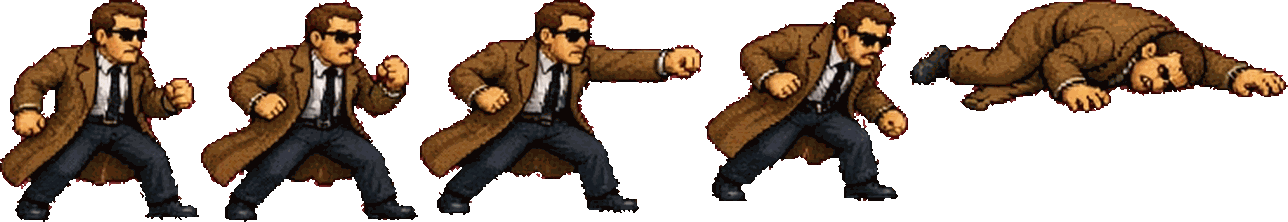
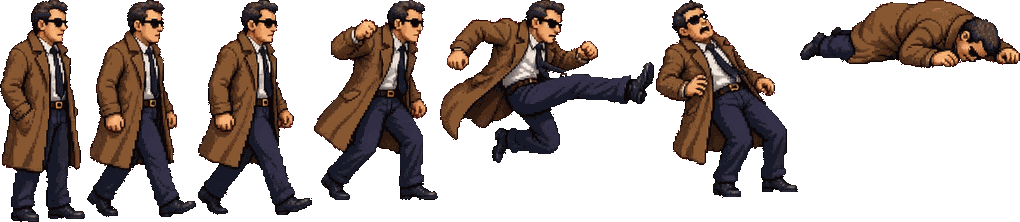
Art v5: multi-frame boss animations (walk/wind-up/strike/hurt/defeat) and AI-generated kid, crates, barrels (with broken rubble), bananas, heart and hay; tests extended

diff --git a/js/main.js b/js/main.js
@@ -4,7 +4,7 @@ import { input } from './input.js';
 import { audio } from './audio.js';
 import { drawBG, laneOf } from './bg.js';
 import { loadAssets, A } from './assets.js';
-import { shadow, drawHarambe, drawHuman, drawKid, drawProp, drawBanana, drawProj, drawText, drawSpark, drawDust, drawLogo, textWidth, spr } from './sprites.js';
+import { shadow, drawHarambe, drawHuman, drawKid, drawProp, drawBanana, drawRubble, drawHeart, drawProj, drawText, drawSpark, drawDust, drawLogo, textWidth, spr } from './sprites.js';
 import { INTRO, drawOutro } from './scenes.js';
 
 const cv = document.getElementById('c'), ctx = cv.getContext('2d');
@@ -26,7 +26,7 @@ function setMode(m) { G.mode = m; G.mt = 0; }
 
 // ---------- stage setup ----------
 function startStage(i, keepPlayer = true) {
-  const st = STAGES[i]; G.stage = i; G.lane = laneOf(st.bg); G.cam = 0; G.lock = null; G.evIdx = 0; G.ents = []; G.items = []; G.proj = []; G.fx = []; G.texts = []; G.boss = null; G.bossSpawned = false; G.goT = 0;
+  const st = STAGES[i]; G.stage = i; G.lane = laneOf(st.bg); G.cam = 0; G.lock = null; G.evIdx = 0; G.ents = []; G.items = []; G.rubble = []; G.proj = []; G.fx = []; G.texts = []; G.boss = null; G.bossSpawned = false; G.goT = 0;
   G.props = st.props.map(p => ({ x: p.x, y: G.lane.top + 4 + ((p.x * 7) % Math.max(8, G.lane.bot - G.lane.top - 10)), kind: p.kind, hp: 2, flash: 0 }));
   if (!keepPlayer || !G.p) G.p = newPlayer(); else { Object.assign(G.p, { x: 40, y: (G.lane.top + G.lane.bot) / 2, z: 0, state: 'idle', vx: 0, hp: G.p.max, inv: 1.5 }); }
   audio.play('stage' + i, st.music); setMode('stageintro');
@@ -125,7 +125,7 @@ function deflect(p, reach) { // swings bat comic projectiles out of the air
   const n0 = G.proj.length; G.proj = G.proj.filter(n => !(Math.abs(n.x - (p.x + p.face * reach * 0.6)) < reach * 0.6 + 6 && Math.abs(n.y - p.y) < 16 && n.kind !== 'shell'));
   if (G.proj.length < n0) { popText('DEFLECT!', p.x + p.face * 20, p.y - 60, '#9af0ff', 0.5); audio.sfx('punch'); G.score += 25; } }
 function hitProps(p, reach) { for (const pr of G.props) if (!pr.dead && Math.abs(pr.x - (p.x + p.face * reach)) < 18 && Math.abs(pr.y - p.y) < 14 && !pr.hitBy?.has(p.st > 0 ? p.state + p.n + (p.comboT) : 0)) { pr.hp--; pr.flash = 0.08; G.hitstop = 0.03; audio.sfx('punch'); if (pr.hp <= 0) breakProp(pr); else pr.hp = pr.hp; } }
-function breakProp(pr) { if (pr.dead) return; pr.dead = true; audio.sfx('break'); G.shake = 2; G.score += 30; spark(pr.x, pr.y - 10, true); const r = Math.random(); G.items.push({ x: pr.x, y: pr.y, kind: 'banana', heal: r < 0.25 ? 50 : 20 }); }
+function breakProp(pr) { if (pr.dead) return; pr.dead = true; (G.rubble ||= []).push({ x: pr.x, y: pr.y, kind: pr.kind, t: 0 }); audio.sfx('break'); G.shake = 2; G.score += 30; spark(pr.x, pr.y - 10, true); const r = Math.random(); G.items.push({ x: pr.x, y: pr.y, kind: 'banana', heal: r < 0.25 ? 50 : 20 }); }
 
 // ---------- enemies ----------
 function attackersNow() { return G.ents.filter(e => !e.boss && (e.state === 'windup' || e.state === 'atk')).length; }
@@ -217,6 +217,7 @@ function updatePlaying(dt) {
   for (const n of G.proj) { n.x += n.vx * dt; n.life -= dt; if (Math.abs(n.x - p.x) < 12 && Math.abs(n.y - p.y) < 13 && p.z < 24 && p.state !== 'dead') { n.life = 0; hurtPlayer(n.dmg, n.x - Math.sign(n.vx), n.kind === 'shell'); popText(PROJ_TEXT[n.kind] || 'HIT!', p.x, p.y - 80, '#d8d8a0', 0.6); } }
   G.proj = G.proj.filter(n => n.life > 0 && n.x > G.cam - 20 && n.x < G.cam + W + 20);
   for (const pr of G.props) if (pr.flash > 0) pr.flash -= dt; G.props = G.props.filter(x => !x.dead);
+  for (const r of G.rubble || []) r.t += dt; G.rubble = (G.rubble || []).filter(r => r.t < 1.6);
   // wave clear
   if (G.lock !== null && !G.ents.some(e => e.state !== 'dead')) {
     if (G.boss && G.bossSpawned) { G.boss = null; G.lock = null; audio.stop(); audio.sfx('fanfare'); G.clearT = 0; setMode('stageclear'); return; }
@@ -255,7 +256,7 @@ function drawHUD() {
   drawText(ctx, 'HARAMBE', 34, 14, '#ffe66a', 8);
   drawText(ctx, String(Math.round(G.score)) + ' PTS.', 148, 14, '#ffffff', 8, 'right');
   drawText(ctx, 'LIFE', 34, 25, '#ff9ad8', 8); segBar(60, 19, 22, r, r > 0.3 ? ['#ffd02a', '#fff09a', '#d88a10'] : ['#ff4a4a', '#ffa0a0', '#a01818'], r <= 0.3);
-  drawText(ctx, 'REST', 34, 36, '#ff9ad8', 8); drawText(ctx, String(p.lives), 62, 36, '#ffe66a', 8); drawText(ctx, 'HI ' + String(Math.max(G.hiscore, Math.round(G.score))), 148, 36, '#9ab8ff', 8, 'right');
+  drawText(ctx, 'REST', 34, 36, '#ff9ad8', 8); drawHeart(ctx, 67, 36); drawText(ctx, 'x' + String(p.lives), 74, 36, '#ffe66a', 8); drawText(ctx, 'HI ' + String(Math.max(G.hiscore, Math.round(G.score))), 148, 36, '#9ab8ff', 8, 'right');
   // right panel: boss, or the enemy you last hit, else stage info
   const b = G.boss && G.ents.includes(G.boss) ? G.boss : null, le = G.lastHit && G.ents.includes(G.lastHit) && G.lastHit.state !== 'dead' && G.lastHitT > 0 ? G.lastHit : null, tgt = b || le;
   panel(W - 4 - 150, 3, 150, tgt ? 30 : 22);
@@ -270,6 +271,7 @@ function drawWorld() {
   drawBG(ctx, STAGES[G.stage].bg, cam, G.t);
   const list = [];
   for (const pr of G.props) list.push({ y: pr.y, f: () => { shadow(ctx, pr.x - cam, pr.y, 18); drawProp(ctx, { ...pr, x: pr.x - cam }); } });
+  for (const r of G.rubble || []) list.push({ y: r.y - 1, f: () => drawRubble(ctx, { ...r, x: r.x - cam }) });
   for (const it of G.items) list.push({ y: it.y, f: () => drawBanana(ctx, it.x - cam, it.y, G.t, it.heal > 25) });
   for (const e of G.ents) list.push({ y: e.y, f: () => { shadow(ctx, e.x - cam, e.y, e.boss ? 56 : 36); const st = e.state, dur = { melee: e.d.double ? 0.5 : 0.4, lunge: 0.5, shoot: 0.5, slam: 0.6, summon: 0.7 }[e.move] || 0.4;
     drawHuman(ctx, { type: e.type, x: e.x - cam, y: e.y, z: e.z, face: e.face, t: e.t, state: st === 'charge' ? 'run' : st, at: st === 'hurt' ? e.st / 0.28 : e.st / dur, lieT: st === 'dead' ? e.dead + 0.5 : e.st, flash: e.flashT > 0 || (st === 'dead' && Math.floor(e.dead * 20) % 2) }); } });

diff --git a/js/sprites.js b/js/sprites.js
@@ -11,7 +11,20 @@ function blitFrame(ctx, sheetName, anim, i, x, y, face, flash) {
   ctx.save(); ctx.translate(q3(x), q3(y)); if (face < 0) ctx.scale(-1, 1);
   ctx.drawImage(img, f.x, f.y, f.w, f.h, -f.ax / S, -f.ay / S, f.w / S, f.h / S); ctx.restore();
 }
+/** AI-generated prop (props_ai atlas, baked at 3x), anchored bottom-centre. `s` = extra scale, `face` < 0 mirrors. */
+function aiProp(ctx, name, x, y, s = 1, face = 1, white = false) {
+  const r = A.propsAi && A.propsAi[name]; if (!r) return false;
+  const src = white ? aiWhite(name) : A.propsAiImg, sx = white ? 0 : r[0], sy = white ? 0 : r[1];
+  ctx.save(); ctx.translate(q3(x), q3(y)); if (face < 0) ctx.scale(-1, 1);
+  ctx.drawImage(src, sx, sy, r[2], r[3], -r[4] / S * s, -r[5] / S * s, r[2] / S * s, r[3] / S * s); ctx.restore(); return true;
+}
+const aiw = {};
+function aiWhite(name) {
+  if (aiw[name]) return aiw[name]; const r = A.propsAi[name], c = document.createElement('canvas'); c.width = r[2]; c.height = r[3]; const g = c.getContext('2d');
+  g.drawImage(A.propsAiImg, r[0], r[1], r[2], r[3], 0, 0, r[2], r[3]); g.globalCompositeOperation = 'source-atop'; g.fillStyle = '#fff'; g.fillRect(0, 0, r[2], r[3]); return aiw[name] = c;
+}
 export function spr(ctx, name, x, y, flip = false) { // props atlas item, anchored bottom-centre
+  if (name === 'haystack' && aiProp(ctx, 'haybale', x, y)) return;
   const r = A.props[name]; if (!r) return; ctx.drawImage(A.propsImg, r[0], r[1], r[2], r[3], Math.round(x - r[2] / 2) , Math.round(y - r[3]), r[2], r[3]);
 }
 const white = {};
@@ -59,19 +72,26 @@ export function drawHuman(ctx, s) {
   blitFrame(ctx, type, anim, i, x, y - z - bob, face, flash);
 }
 
+/** The kid (AI art). pose: kid_idle / kid_walk0 / kid_walk1 (idle with a hop) / kid_fly (tumbling) / kid_flop, kid_cheer (landed in the hay nest). Anchored at the feet. */
 export function drawKid(ctx, x, y, pose = 'kid_idle', face = 1) {
-  const r = A.props[pose]; if (!r) return;
-  ctx.save(); ctx.translate(Math.round(x), Math.round(y)); if (face < 0) ctx.scale(-1, 1);
-  ctx.scale(1.5, 1.5); ctx.drawImage(A.propsImg, r[0], r[1], r[2], r[3], -22, -40, r[2], r[3]); ctx.restore();
+  const name = pose === 'kid_fly' ? 'kid_fly' : pose === 'kid_flop' || pose === 'kid_cheer' ? 'kid_hay' : 'kid_idle';
+  const hop = pose === 'kid_walk0' ? -1 : pose === 'kid_walk1' ? 1 : 0;
+  if (!aiProp(ctx, name, x, y + hop, 1, face)) { const r = A.props[pose]; if (r) ctx.drawImage(A.propsImg, r[0], r[1], r[2], r[3], Math.round(x - r[2] / 2), Math.round(y - r[3]), r[2], r[3]); }
 }
+export function drawRubble(ctx, r) { // broken crate/barrel left behind for a moment, blinking out
+  if (r.t > 1.1 && Math.floor(r.t * 16) % 2) return; aiProp(ctx, r.kind === 'crate' ? 'crate_broken' : 'barrel_broken', r.x, r.y);
+}
+export function drawHeart(ctx, x, y) { aiProp(ctx, 'heart', x, y); }
 
 export function drawProp(ctx, p) {
-  const f = p.flash ? sprWhite : spr; f(ctx, p.kind === 'crate' ? 'crate' : 'barrel', p.x, p.y);
+  const n = p.kind === 'crate' ? 'crate' : 'barrel';
+  if (aiProp(ctx, n, p.x, p.y, 1, 1, !!p.flash)) return;
+  const f = p.flash ? sprWhite : spr; f(ctx, n, p.x, p.y);
 }
 
 export function drawBanana(ctx, x, y, t, big) {
-  const bob = Math.round(Math.sin(t * 6) * 2); shadow(ctx, x, y, 10);
-  spr(ctx, big ? 'banana_big' : 'banana', x, y - 4 + bob);
+  const bob = Math.round(Math.sin(t * 6) * 2); shadow(ctx, x, y, big ? 14 : 11);
+  if (!aiProp(ctx, big ? 'banana_big' : 'banana', x, y - 3 + bob)) spr(ctx, big ? 'banana_big' : 'banana', x, y - 4 + bob);
 }
 /** Comic projectiles: nets, tranquilizer darts, stun bolts, cannon shells. */
 export function drawProj(ctx, n, t = 0) {

diff --git a/js/scenes.js b/js/scenes.js
@@ -14,7 +14,7 @@ const scenes = [
   { dur: 4.2, draw(ctx, t) { // kid wanders in
     drawBG(ctx, 'zoo', 120, t); ctx.fillStyle = 'rgba(0,0,0,.15)'; ctx.fillRect(0, 0, W, H);
     shadow(ctx, 230, 150, 44); drawHarambe(ctx, { x: 230, y: 150, face: -1, t, state: 'idle' });
-    const kx = 20 + t * 40; shadow(ctx, kx, 150, 14); drawKid(ctx, kx, 150 + Math.abs(Math.sin(t * 8)) * -2, Math.floor(t * 5) % 2 ? 'kid_walk0' : 'kid_walk1');
+    const kx = 20 + t * 40; shadow(ctx, kx, 150, 14); drawKid(ctx, kx, 152 + Math.abs(Math.sin(t * 8)) * -2, Math.floor(t * 5) % 2 ? 'kid_walk0' : 'kid_walk1');
     if (t > 2.2) { drawText(ctx, '!', 232, 92, '#ff3030', 16, 'center'); drawText(ctx, 'uh oh', kx, 124, '#fff', 7, 'center'); }
     panel(ctx, 'CINCINNATI ZOO. A CURIOUS KID WANDERS INTO\nTHE GORILLA WORLD EXHIBIT...'); } },
   { dur: 3.6, draw(ctx, t) { // alt universe — Harambe has a better idea
@@ -24,12 +24,12 @@ const scenes = [
     drawText(ctx, 'HARAMBE HAS A BETTER IDEA.', W / 2, 40, '#ffe03a', 9, 'center');
     panel(ctx, 'ALTERNATE UNIVERSE: INSTEAD OF A SAD ENDING,\nHE SPOTS A GIANT HAYSTACK...'); } },
   { dur: 4.6, draw(ctx, t) { // the toss: safe, soft landing, kid delighted
-    drawBG(ctx, 'zoo', 120, t); hay(ctx, 62, 152, 1.1);
+    drawBG(ctx, 'zoo', 120, t); if (t < 2.1) hay(ctx, 62, 152, 1.15);
     shadow(ctx, 235, 150, 44); drawHarambe(ctx, { x: 235, y: 150, face: -1, t, state: t < 0.3 ? 'idle' : 'atk', combo: 2, at: Math.min(1, (t - 0.3) / 0.5) });
     once('toss', 0.3, t, () => audio.sfx('toss')); once('flop', 2.1, t, () => audio.sfx('flop'));
     if (t < 0.3) drawKid(ctx, 215, 150, 'kid_idle', -1);
-    else if (t < 2.1) { const k = (t - 0.3) / 1.8, x = 215 - k * 150, y = 120 - Math.sin(k * Math.PI) * 70 + k * 22; drawKid(ctx, x, y + 40, 'kid_fly', -1); drawText(ctx, 'WHEEEEE!', x, y - 24, '#fff', 8, 'center'); }
-    else { drawKid(ctx, 62, 118 - Math.max(0, 0.4 - (t - 2.1)) * 20, t > 2.8 ? 'kid_cheer' : 'kid_flop', 1); drawText(ctx, '*FLOP*', 62, 78, '#ffe03a', 8, 'center'); if (t > 2.8) drawText(ctx, '"AGAIN!"', 62, 66, '#fff', 8, 'center'); for (let i = 0; i < 6; i++) { ctx.fillStyle = '#e8d070'; ctx.fillRect(40 + i * 8 + Math.sin(t * 6 + i) * 3, 90 - ((t * 20 + i * 9) % 30), 3, 1); } }
+    else if (t < 2.1) { const k = (t - 0.3) / 1.8, x = 215 - k * 150, y = 120 - Math.sin(k * Math.PI) * 70 + k * 22; drawKid(ctx, x, y + 28, 'kid_fly', -1); drawText(ctx, 'WHEEEEE!', x, y - 24, '#fff', 8, 'center'); }
+    else { drawKid(ctx, 62, 152 - Math.max(0, 0.4 - (t - 2.1)) * 40, t > 2.8 ? 'kid_cheer' : 'kid_flop', 1); drawText(ctx, '*FLOP*', 62, 78, '#ffe03a', 8, 'center'); if (t > 2.8) drawText(ctx, '"AGAIN!"', 62, 66, '#fff', 8, 'center'); for (let i = 0; i < 6; i++) { ctx.fillStyle = '#e8d070'; ctx.fillRect(40 + i * 8 + Math.sin(t * 6 + i) * 3, 90 - ((t * 20 + i * 9) % 30), 3, 1); } }
     panel(ctx, t < 2.1 ? '...AND TOSSES THE KID TO SAFETY!' : 'THE KID IS PERFECTLY FINE. HAY EVERYWHERE.\nBEST DAY EVER.'); } },
   { dur: 4.6, draw(ctx, t) { // chaos, escape
     drawBG(ctx, 'zoo', 120, t); ctx.fillStyle = (Math.floor(t * 4) % 2) ? 'rgba(255,0,0,.12)' : 'rgba(0,0,255,.12)'; ctx.fillRect(0, 0, W, H);

diff --git a/js/assets.js b/js/assets.js
@@ -1,18 +1,18 @@
 // Asset loader. Characters and stage backgrounds are AI-generated 16-bit art, sliced by tools/ai-art (atlas.json, bg/bg.json).
 // The props atlas (crates, bananas, sparks, kid) and pixel font still come from tools/art.
 const img = src => new Promise((res, rej) => { const i = new Image(); i.onload = () => res(i); i.onerror = () => rej(new Error('asset ' + src)); i.src = src; });
-export const A = { atlas: null, sheets: {}, flash: {}, props: null, propsImg: null, font: null, bgMeta: null, bg: {}, icon: null, ready: false };
+export const A = { atlas: null, sheets: {}, flash: {}, props: null, propsImg: null, propsAi: null, propsAiImg: null, font: null, bgMeta: null, bg: {}, icon: null, ready: false };
 
 function whiteCopy(im) { // white silhouette of a sheet, used for hit flashes
   const c = document.createElement('canvas'); c.width = im.width; c.height = im.height; const g = c.getContext('2d');
   g.drawImage(im, 0, 0); g.globalCompositeOperation = 'source-atop'; g.fillStyle = '#fff'; g.fillRect(0, 0, c.width, c.height); return c;
 }
 export async function loadAssets() {
-  const [atlas, bgMeta, props] = await Promise.all([fetch('assets/atlas.json').then(r => r.json()), fetch('assets/bg/bg.json').then(r => r.json()), fetch('assets/props.json').then(r => r.json())]);
-  A.atlas = atlas; A.bgMeta = bgMeta; A.props = props;
+  const [atlas, bgMeta, props, propsAi] = await Promise.all([fetch('assets/atlas.json').then(r => r.json()), fetch('assets/bg/bg.json').then(r => r.json()), fetch('assets/props.json').then(r => r.json()), fetch('assets/props_ai.json').then(r => r.json())]);
+  A.atlas = atlas; A.bgMeta = bgMeta; A.props = props; A.propsAi = propsAi;
   const jobs = [];
   for (const k of Object.keys(atlas)) jobs.push(img('assets/' + atlas[k].img).then(i => { A.sheets[k] = i; A.flash[k] = whiteCopy(i); }));
-  jobs.push(img('assets/props.png').then(i => A.propsImg = i), img('assets/font.png').then(i => A.font = i), img('assets/icon.png').then(i => A.icon = i));
+  jobs.push(img('assets/props.png').then(i => A.propsImg = i), img('assets/props_ai.png').then(i => A.propsAiImg = i), img('assets/font.png').then(i => A.font = i), img('assets/icon.png').then(i => A.icon = i));
   for (const [k, m] of Object.entries(bgMeta)) {
     A.bg[k] = {};
     jobs.push(img(`assets/bg/${k}.webp`).then(i => A.bg[k].main = i));

diff --git a/tests/logic.test.js b/tests/logic.test.js
@@ -59,6 +59,15 @@ test('atlas has every character and animation the game uses, and every frame lie
     }
   }
 });
+test('bosses use the multi-frame strips: walk cycle, wind-up, strike, hurt and a defeat sequence of distinct frames', () => {
+  const atlas = JSON.parse(fs.readFileSync(asset('atlas.json')));
+  for (const d of Object.values(BOSSES)) {
+    const m = atlas[d.sheet], a = m.anims;
+    assert.ok(a.walk.length >= 3, d.sheet + ' walk cycle');
+    assert.ok(new Set([...a.walk, ...a.windup, ...a.atk, ...a.hurt, ...a.down]).size >= 7, d.sheet + ' distinct frames');
+    assert.ok(a.down.length >= 3 && a.down[2] !== a.down[0], d.sheet + ' defeat differs from hurt');
+  }
+});
 test('every stage has a background with sky/foreground files and a sane lane', () => {
   const bg = JSON.parse(fs.readFileSync(asset('bg/bg.json')));
   for (const s of STAGES) {
@@ -71,6 +80,12 @@ test('every stage has a background with sky/foreground files and a sane lane', (
   for (const f of ['props.png', 'props.json', 'font.png', 'icon.png']) assert.ok(fs.existsSync(asset(f)), f);
   const props = JSON.parse(fs.readFileSync(asset('props.json')));
   for (const k of ['crate', 'barrel', 'banana', 'net', 'haystack', 'spark0', 'bspark5', 'dust3', 'kid_fly']) assert.ok(props[k], k);
+  const ai = JSON.parse(fs.readFileSync(asset('props_ai.json'))); assert.ok(fs.existsSync(asset('props_ai.png')));
+  const [pw, ph] = pngSize(asset('props_ai.png'));
+  for (const k of ['kid_idle', 'kid_fly', 'kid_hay', 'crate', 'crate_broken', 'barrel', 'barrel_broken', 'banana', 'banana_big', 'heart', 'haybale']) {
+    const r = ai[k]; assert.ok(r, 'AI prop ' + k); const [x, y, w, h, ax, ay] = r;
+    assert.ok(x >= 0 && y >= 0 && x + w <= pw && y + h <= ph && ax > 0 && ax < w && ay === h, k + ' inside sheet, anchored bottom');
+  }
 });
 test('difficulty ramps stage by stage and the roster matches the theme', () => {
   for (let i = 1; i < STAGES.length; i++) {

diff --git a/tools/ai-art/build_sprites.py b/tools/ai-art/build_sprites.py
@@ -23,6 +23,10 @@ SHEETS = {
     'cops':    dict(src='enemy-cops.jpg', rows=[8, 8, 8], face='L'),
     'fbi':     dict(src='enemy-fbi.jpg', rows=[6, 6, 7], face='L', split={2: (.3, .75)}),
     'army':    dict(src='enemy-military.jpg', rows=[8, 8, 8], face='L'),
+    # multi-frame boss animation strips (one row each): idle, walk x3, wind-up, strike, hurt, defeated (7-frame strips lack the wind-up)
+    'b1': dict(src='boss1-anim.jpg', rows=[8], face='L', plain=True), 'b2': dict(src='boss2-anim.jpg', rows=[7], face='L'),
+    'b3': dict(src='boss3-anim.jpg', rows=[7], face='L'), 'b4': dict(src='boss4-anim.jpg', rows=[8], face='L'),
+    'b5': dict(src='boss5-anim.jpg', rows=[8], face='L', plain=True, split={0: (.35, .75)}),
     'bosses':  dict(src='bosses.jpg', rows=[5, 5, 5, 5, 5], face='L', bands=[151, 291, 425, 559]),
 }
 H = lambda r, c: (r, c)
@@ -59,15 +63,28 @@ for name, spec in {
 }.items():
     spec['height'] = H_HUMAN; CHARS[name] = spec
 BOSS = lambda row, h, anims, **kw: dict(sheet='bosses', ref=(row, 0), height=h, anims=anims, **kw)
-CHARS.update({
+CHARS.update({  # old single-sheet bosses: kept as the fallback source (see FALLBACK) for any animation a new strip lacks
     'boss_head':    BOSS(0, 226, {'idle': [(0, 0)], 'walk': [(0, 0), (0, 1)], 'windup': [(0, 1)], 'atk': [(0, 2)], 'hurt': [(0, 3)], 'down': [(0, 3), (0, 4), (0, 4)]}),
     'boss_captain': BOSS(1, 226, {'idle': [(1, 0)], 'walk': [(1, 0), (1, 1)], 'windup': [(1, 1)], 'atk': [(1, 2)], 'hurt': [(1, 3)], 'down': [(1, 3), (1, 4), (1, 4)]}),
     'boss_agent':   BOSS(2, 222, {'idle': [(2, 0)], 'walk': [(2, 0), (2, 1)], 'windup': [(2, 1)], 'atk': [(2, 2)], 'hurt': [(2, 3)], 'down': [(2, 3), (2, 4), (2, 4)]}),
     'boss_general': BOSS(3, 214, {'idle': [(3, 0)], 'walk': [(3, 0)], 'windup': [(3, 1), (3, 2)], 'atk': [(3, 3)], 'hurt': [(3, 1)], 'down': [(3, 1), (3, 4), (3, 4)]}),
     'boss_baron':   BOSS(4, 226, {'idle': [(4, 0)], 'walk': [(4, 0), (4, 1)], 'windup': [(4, 1)], 'atk': [(4, 2)], 'hurt': [(4, 1)], 'down': [(4, 1), (4, 4), (4, 4)]}, noflip=[(4, 0)]),
 })
+# new multi-frame strips: boss -> (sheet, row in old sheet, standing height, anims). Frame = (0, col) of the strip.
+STRIP = lambda sh, h, walk, windup, atk, hurt, down: dict(sheet=sh, ref=(0, 0), height=h, anims={'idle': [(0, 0)], 'walk': [(0, c) for c in walk],
+    'windup': [(0, c) for c in windup], 'atk': [(0, c) for c in atk], 'hurt': [(0, c) for c in hurt], 'down': [(0, hurt[0]), (0, down), (0, down)]})
+NEW = {
+    'boss_head':    STRIP('b1', 226, [0, 1, 2, 3], [4], [5], [6], 7),
+    'boss_captain': STRIP('b2', 226, [0, 1, 2, 3], [3], [4], [5], 6),  # 7-frame strip: no separate wind-up, reuses walk frame 3 (baton up behind)
+    'boss_agent':   STRIP('b3', 222, [0, 1, 2], [3], [4], [5], 6),      # 7-frame strip: frame 3 (fist cocked) doubles as wind-up
+    'boss_general': STRIP('b4', 214, [0, 1, 2, 3], [4], [5], [6], 7),
+    'boss_baron':   STRIP('b5', 226, [0, 1, 2, 3], [4], [5], [6], 7),
+}
+FALLBACK = {k: v for k, v in CHARS.items() if k in NEW}  # old bosses.jpg spec per boss
+for k, v in NEW.items():
+    ch = dict(v); ch['fallback'] = FALLBACK[k]; CHARS[k] = ch
 
-def split_to_n(row, n, rng=(.3, .7), rgba=None):
+def split_to_n(row, n, rng=(.3, .7), rgba=None, plain=False):
     """row = list of (bbox, mask) left->right. Split the widest merged sprite at the emptiest column of its
     dark (suit/outline) pixels; pale pixels (swoosh arcs, sparks) left of the cut go to the right-hand sprite."""
     row = list(row)
@@ -75,7 +92,7 @@ def split_to_n(row, n, rng=(.3, .7), rgba=None):
         k = max(range(len(row)), key=lambda i: row[i][0][2] - row[i][0][0])
         (x0, y0, x1, y1), m = row[k]
         luma = rgba[..., :3].astype(float).mean(-1)
-        dark = m & (luma < 100)
+        dark = m if plain else m & (luma < 100)  # plain: cut at the emptiest column of ALL sprite pixels (light-coloured uniforms)
         prof = dark[:, x0:x1].sum(0).astype(float); w = x1 - x0
         lo, hi = int(w * rng[0]), int(w * rng[1])
         cut = x0 + lo + int(np.argmin(np.convolve(prof, np.ones(5) / 5, 'same')[lo:hi]))
@@ -101,7 +118,7 @@ def extract(sheet):
         rows = order_comps(components(fg))
     out = []
     for r, n in zip(rows, sp['rows']):
-        r = split_to_n(r, n, sp.get('split', {}).get(len(out), (.3, .7)), rgba) if len(r) < n else r
+        r = split_to_n(r, n, sp.get('split', {}).get(len(out), (.3, .7)), rgba, sp.get('plain', False)) if len(r) < n else r
         assert len(r) == n, (sheet, [len(x) for x in rows], sp['rows'])
         out.append(r)
     assert len(out) == len(sp['rows'])
@@ -132,6 +149,11 @@ def build():
         sh = ch['sheet']
         if sh not in cache: cache[sh] = extract(sh)
         frames, face = cache[sh]
+        fb = ch.get('fallback'); ch = dict(ch); ch['anims'] = dict(ch['anims'])
+        if fb:  # any animation the new strip lacks is filled from the old bosses.jpg frames (keys ('fb', r, c))
+            if fb['sheet'] not in cache: cache[fb['sheet']] = extract(fb['sheet'])
+            for an, lst in fb['anims'].items():
+                if an not in ch['anims']: ch['anims'][an] = [('fb',) + f for f in lst]
         refimg = frames[ch['ref']]
         # reference height for the scale = standing height of the reference frame
         if 'height' in ch: height = ch['height']
@@ -143,9 +165,13 @@ def build():
                 if f not in used: used.append(f)
         sprites = []
         for f in used:
-            im = frames[f]
-            if face == 'L' and f not in ch.get('noflip', []): im = im.transpose(Image.FLIP_LEFT_RIGHT)
-            nw, nh = max(1, round(im.size[0] * scale)), max(1, round(im.size[1] * scale))
+            if f[0] == 'fb':
+                ff, fface = cache[fb['sheet']]; im = ff[f[1:]]; fsc = fb['height'] / ff[fb['ref']].size[1]
+                flip = fface == 'L' and f[1:] not in fb.get('noflip', []); sc = fsc
+            else:
+                im = frames[f]; flip = face == 'L' and f not in ch.get('noflip', []); sc = scale
+            if flip: im = im.transpose(Image.FLIP_LEFT_RIGHT)
+            nw, nh = max(1, round(im.size[0] * sc)), max(1, round(im.size[1] * sc))
             im = im.resize((nw, nh), Image.LANCZOS)
             al = np.array(im); al[..., 3] = np.where(al[..., 3] > 120, 255, 0); im = Image.fromarray(al)
             ax, ay = anchor_of(im, f in ch.get('bbox_anchor', []))

diff --git a/tools/ai-art/build_props.py b/tools/ai-art/build_props.py
@@ -1,0 +1,49 @@
+#!/usr/bin/env python3
+"""Slice the AI-generated props sheet (magenta background) into assets/props_ai.png + props_ai.json.
+
+  python3 tools/ai-art/build_props.py [art-src dir]
+
+Entries are [x, y, w, h, ax, ay] in device pixels (the game draws them at 1/3 scale on its 320x180 logic grid),
+anchored at bottom-centre. Needs pillow, numpy, scipy.
+"""
+import json, sys, os
+import numpy as np
+from PIL import Image
+from keyer import load, key, to_rgba, components, order
+
+SRC = sys.argv[1] if len(sys.argv) > 1 else '/workspace/art-src'
+OUT = os.path.join(os.path.dirname(__file__), '..', '..', 'assets')
+# sheet layout, left->right per row: (name, device-px scale factor). Related sprites share a factor so they stay in proportion.
+KID, CR, BAN = 0.50, 0.47, 0.33
+LAYOUT = [
+    [('kid_idle', KID), ('kid_fly', KID), ('kid_hay', KID)],
+    [('crate', CR), ('crate_broken', CR), ('barrel', CR), ('barrel_broken', CR)],
+    [('banana', BAN), ('banana_big', BAN), ('heart', 0.30), ('haybale', 0.62)],
+]
+
+def main():
+    a = load(os.path.join(SRC, 'props.jpg')); fg, _ = key(a); rgba = to_rgba(a, fg)
+    comps = components(fg); byb = {tuple(map(int, c[0])): c for c in comps}
+    rows = [[byb[tuple(map(int, b))] for b in r] for r in order([c[0] for c in comps])]
+    assert [len(r) for r in rows] == [len(r) for r in LAYOUT], [len(r) for r in rows]
+    sprites = []
+    for r, lay in zip(rows, LAYOUT):
+        for (bb, m), (name, k) in zip(r, lay):
+            x0, y0, x1, y1 = bb
+            crop = rgba[y0:y1, x0:x1].copy(); crop[..., 3] = np.where(m[y0:y1, x0:x1], 255, 0)
+            im = Image.fromarray(crop); im = im.resize((max(1, round(im.size[0] * k)), max(1, round(im.size[1] * k))), Image.LANCZOS)
+            al = np.array(im); al[..., 3] = np.where(al[..., 3] > 120, 255, 0); sprites.append((name, Image.fromarray(al)))
+    maxw = 900; x = y = rowh = 0; place = {}
+    for name, im in sprites:
+        w, h = im.size
+        if x + w + 2 > maxw: x = 0; y += rowh + 2; rowh = 0
+        place[name] = (x, y); x += w + 2; rowh = max(rowh, h)
+    atlas = Image.new('RGBA', (maxw, y + rowh), (0, 0, 0, 0)); meta = {}
+    for name, im in sprites:
+        atlas.paste(im, place[name]); meta[name] = [place[name][0], place[name][1], im.size[0], im.size[1], im.size[0] // 2, im.size[1]]
+    atlas = atlas.crop((0, 0, max(m[0] + m[2] for m in meta.values()), atlas.size[1]))
+    atlas.quantize(256, method=Image.Quantize.FASTOCTREE, dither=Image.Dither.NONE).save(f'{OUT}/props_ai.png', optimize=True)
+    json.dump(meta, open(f'{OUT}/props_ai.json', 'w'), separators=(',', ':'))
+    print({k: v[2:4] for k, v in meta.items()}, atlas.size)
+
+if __name__ == '__main__': main()

diff --git a/README.md b/README.md
@@ -40,9 +40,10 @@ Characters and stage backgrounds are AI-generated 16-bit pixel art (magenta-back
 
 ```bash
 pip install pillow numpy scipy
-python3 tools/ai-art/build_sprites.py /path/to/art-src   # hero.jpg, enemy-*.jpg, bosses.jpg -> assets/atlas/*.png + assets/atlas.json + assets/icon.png
+python3 tools/ai-art/build_sprites.py /path/to/art-src   # hero.jpg, enemy-*.jpg, boss1..5-anim.jpg (+ bosses.jpg fallback) -> assets/atlas/*.png + assets/atlas.json + assets/icon.png
+python3 tools/ai-art/build_props.py /path/to/art-src     # props.jpg (kid, crates, barrels, bananas, heart, hay) -> assets/props_ai.png + props_ai.json
 python3 tools/ai-art/build_bg.py /path/to/art-src        # bg-*.jpg -> assets/bg/*.webp + bg.json (sky / main / foreground layers, floor lane per stage)
 ```
-The slicer keys out the magenta (hue based, so the darker ground shadows go too, with JPEG-fringe cleanup and despill), finds each sprite by connected components, flips the left-facing enemy sheets so everything faces right, scales every character to a common standing height, and anchors every frame at its feet so animations don't jitter. The game draws on a 960x540 canvas (a 3x scale of the 320x180 logic grid) so the art is shown at native resolution. Backgrounds tile mirrored along the stage; the zoo and base have a slower sky layer and the jungle a faster foreground strip for slight parallax. The small remaining procedural bits (crates, barrels, bananas, hit sparks, the kid, the pixel font) are built by `python3 tools/art/build_all.py`.
+The slicer keys out the magenta (hue based, so the darker ground shadows go too, with JPEG-fringe cleanup and despill), finds each sprite by connected components, flips the left-facing enemy sheets so everything faces right, scales every character to a common standing height, and anchors every frame at its feet so animations don't jitter. The game draws on a 960x540 canvas (a 3x scale of the 320x180 logic grid) so the art is shown at native resolution. Backgrounds tile mirrored along the stage; the zoo and base have a slower sky layer and the jungle a faster foreground strip for slight parallax. Each boss has an 8-frame strip (idle, 3 walk frames, wind-up, strike, hurt, defeated; the Police Captain and FBI agent strips have 7 and reuse a walk frame as the wind-up); frames a strip lacks fall back to the older `bosses.jpg` frames. The kid, crates, barrels, bananas, banana bunch, heart and haystack are AI art too (`props_ai`). The small remaining procedural bits (hit sparks, dust, net, the pixel font) are built by `python3 tools/art/build_all.py`.
 
 By kungFuDOOM.
